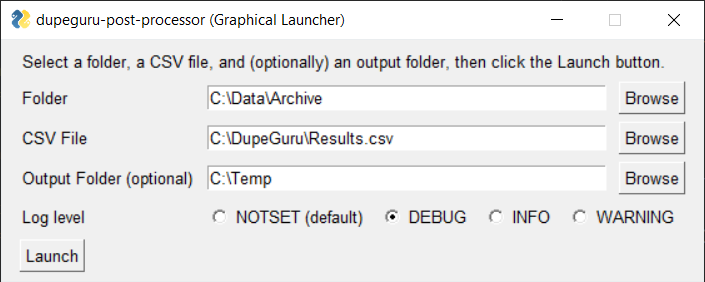
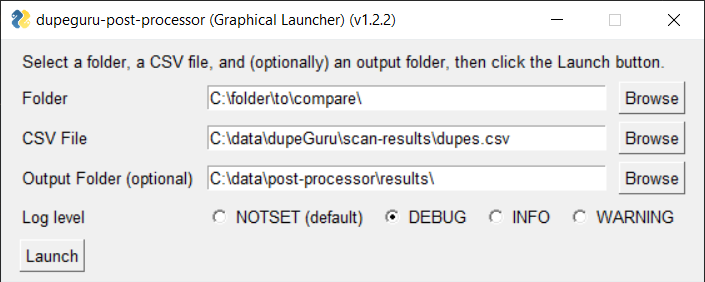
Update GUI screenshot in README

diff --git a/README.md b/README.md
@@ -89,7 +89,7 @@ Open the GUI:
 $ python gui.py
 ```
 
-Here's what the GUI looks like as of release `v1.2.1`:
+Here's what the GUI looks like as of version `1.2.2`:
 
 ![gui](./doc/gui.png)
 
